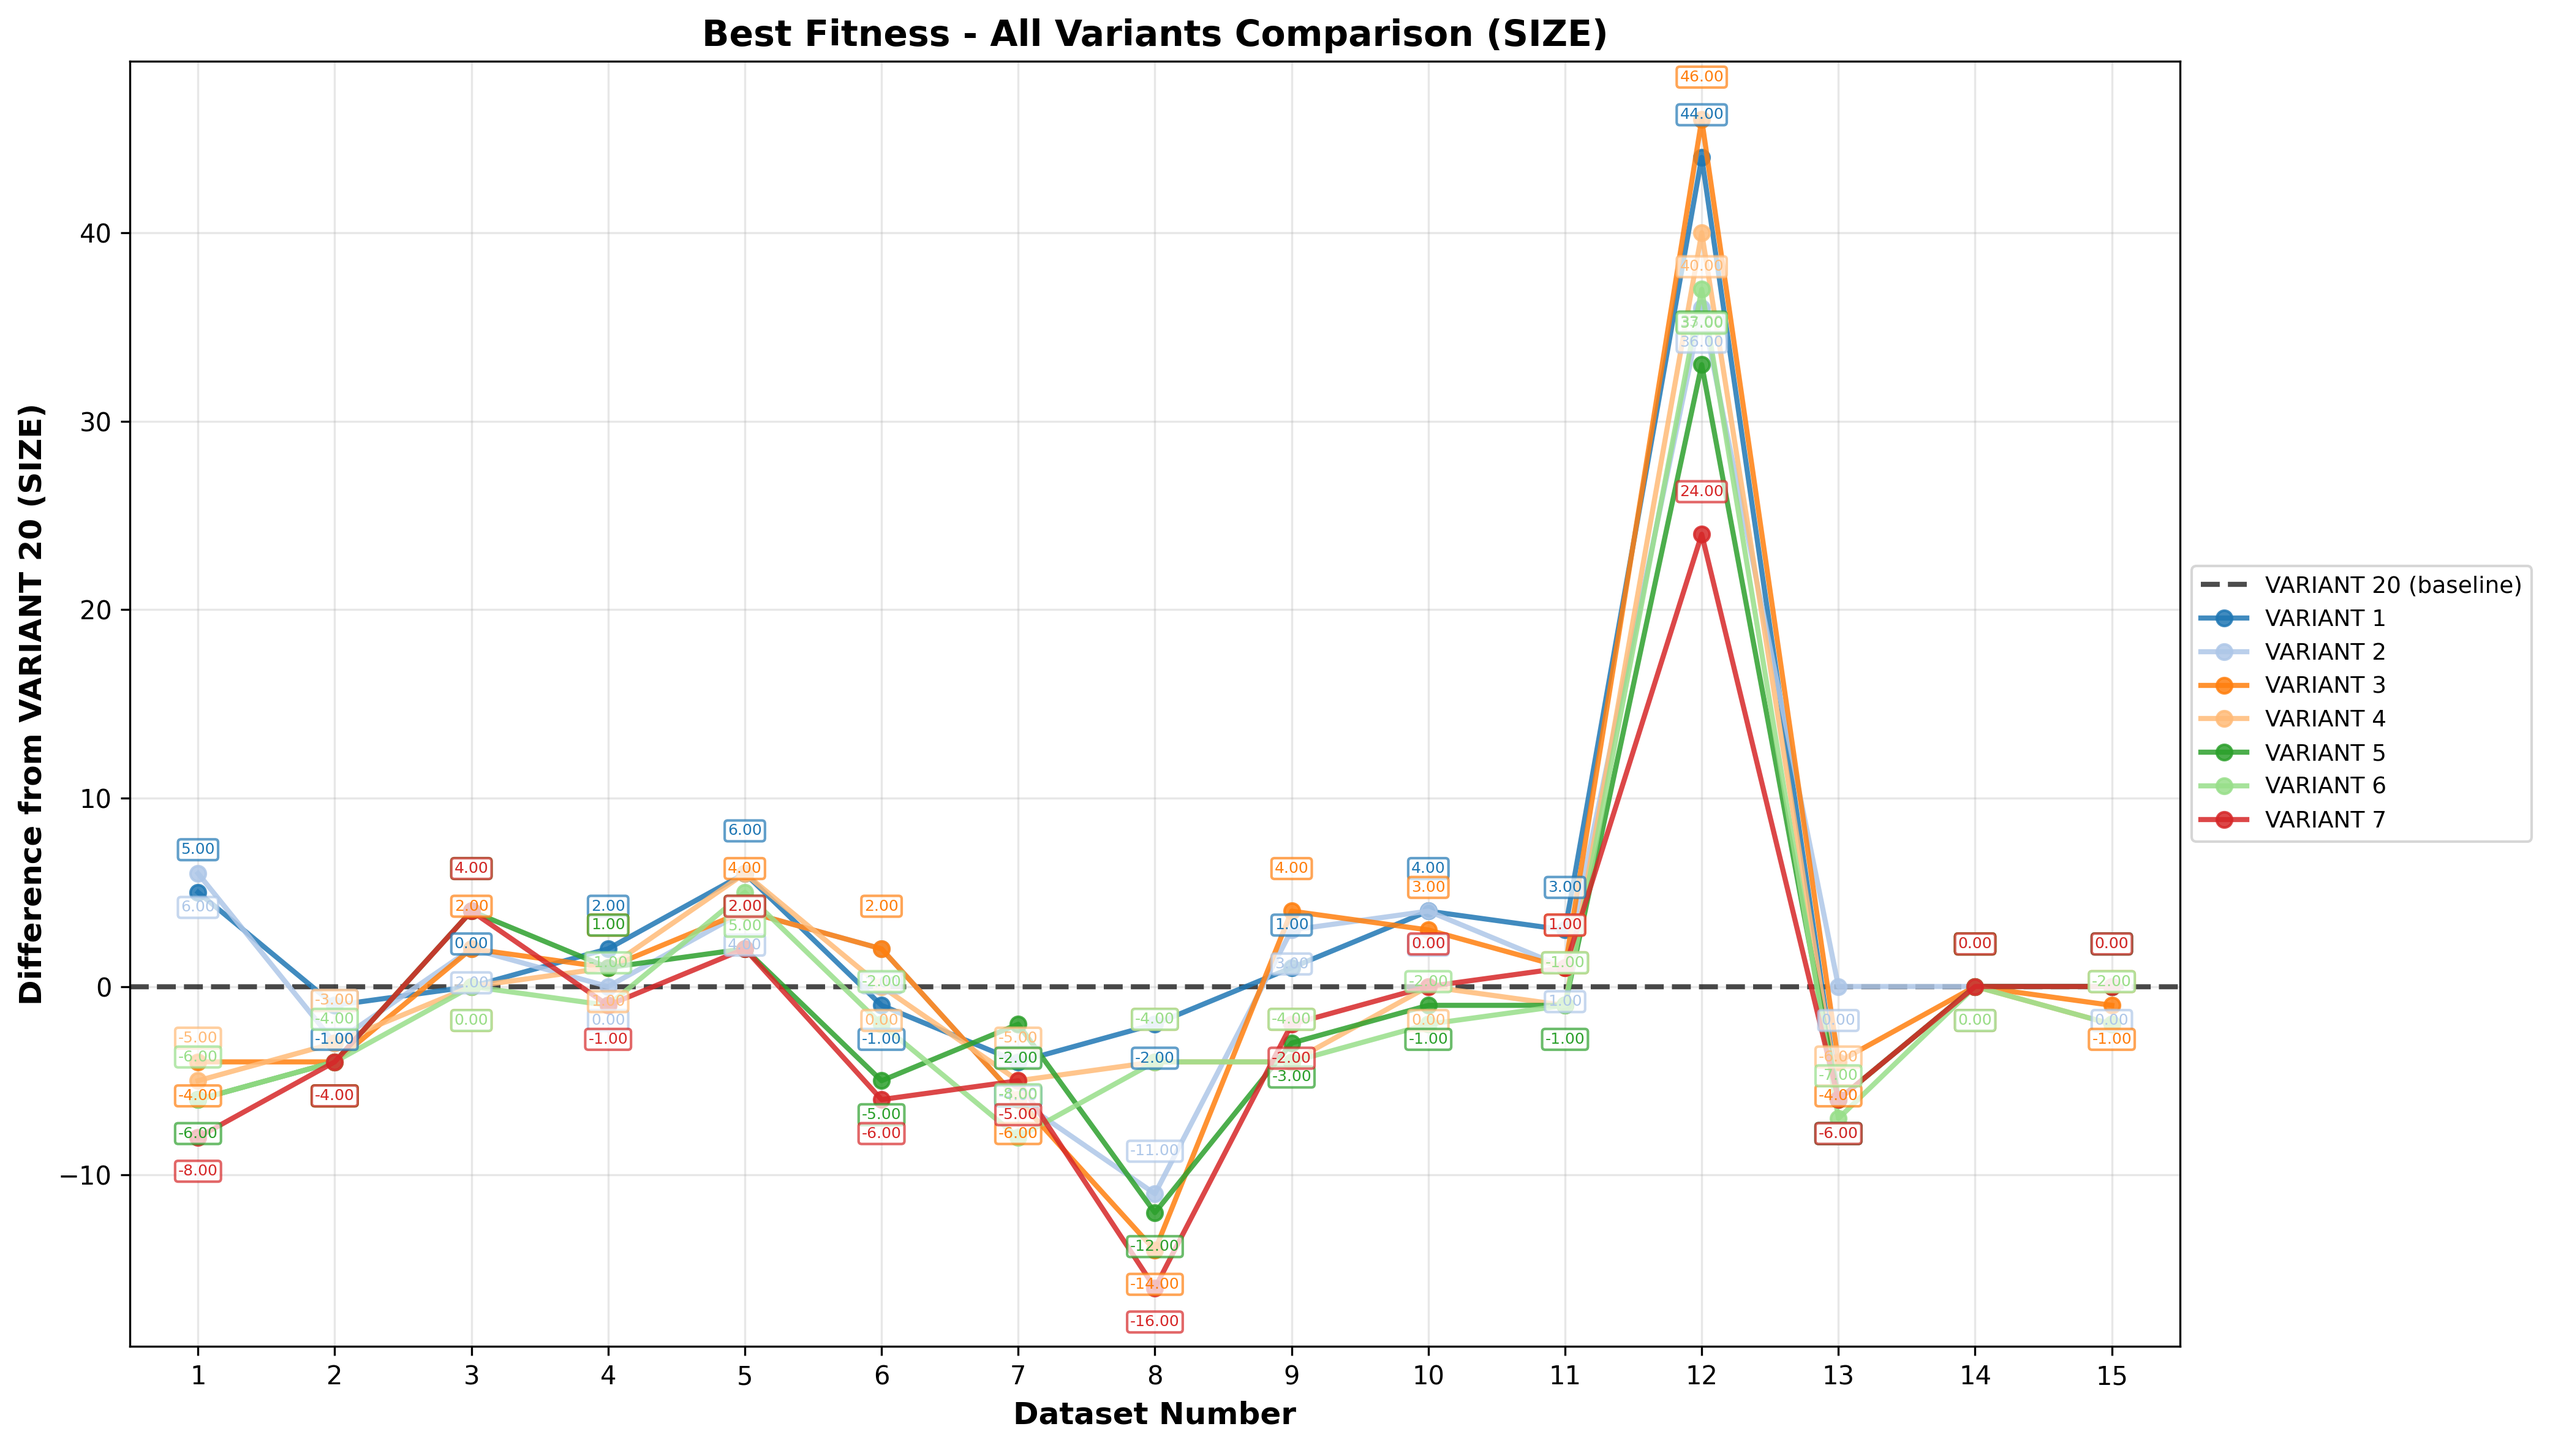
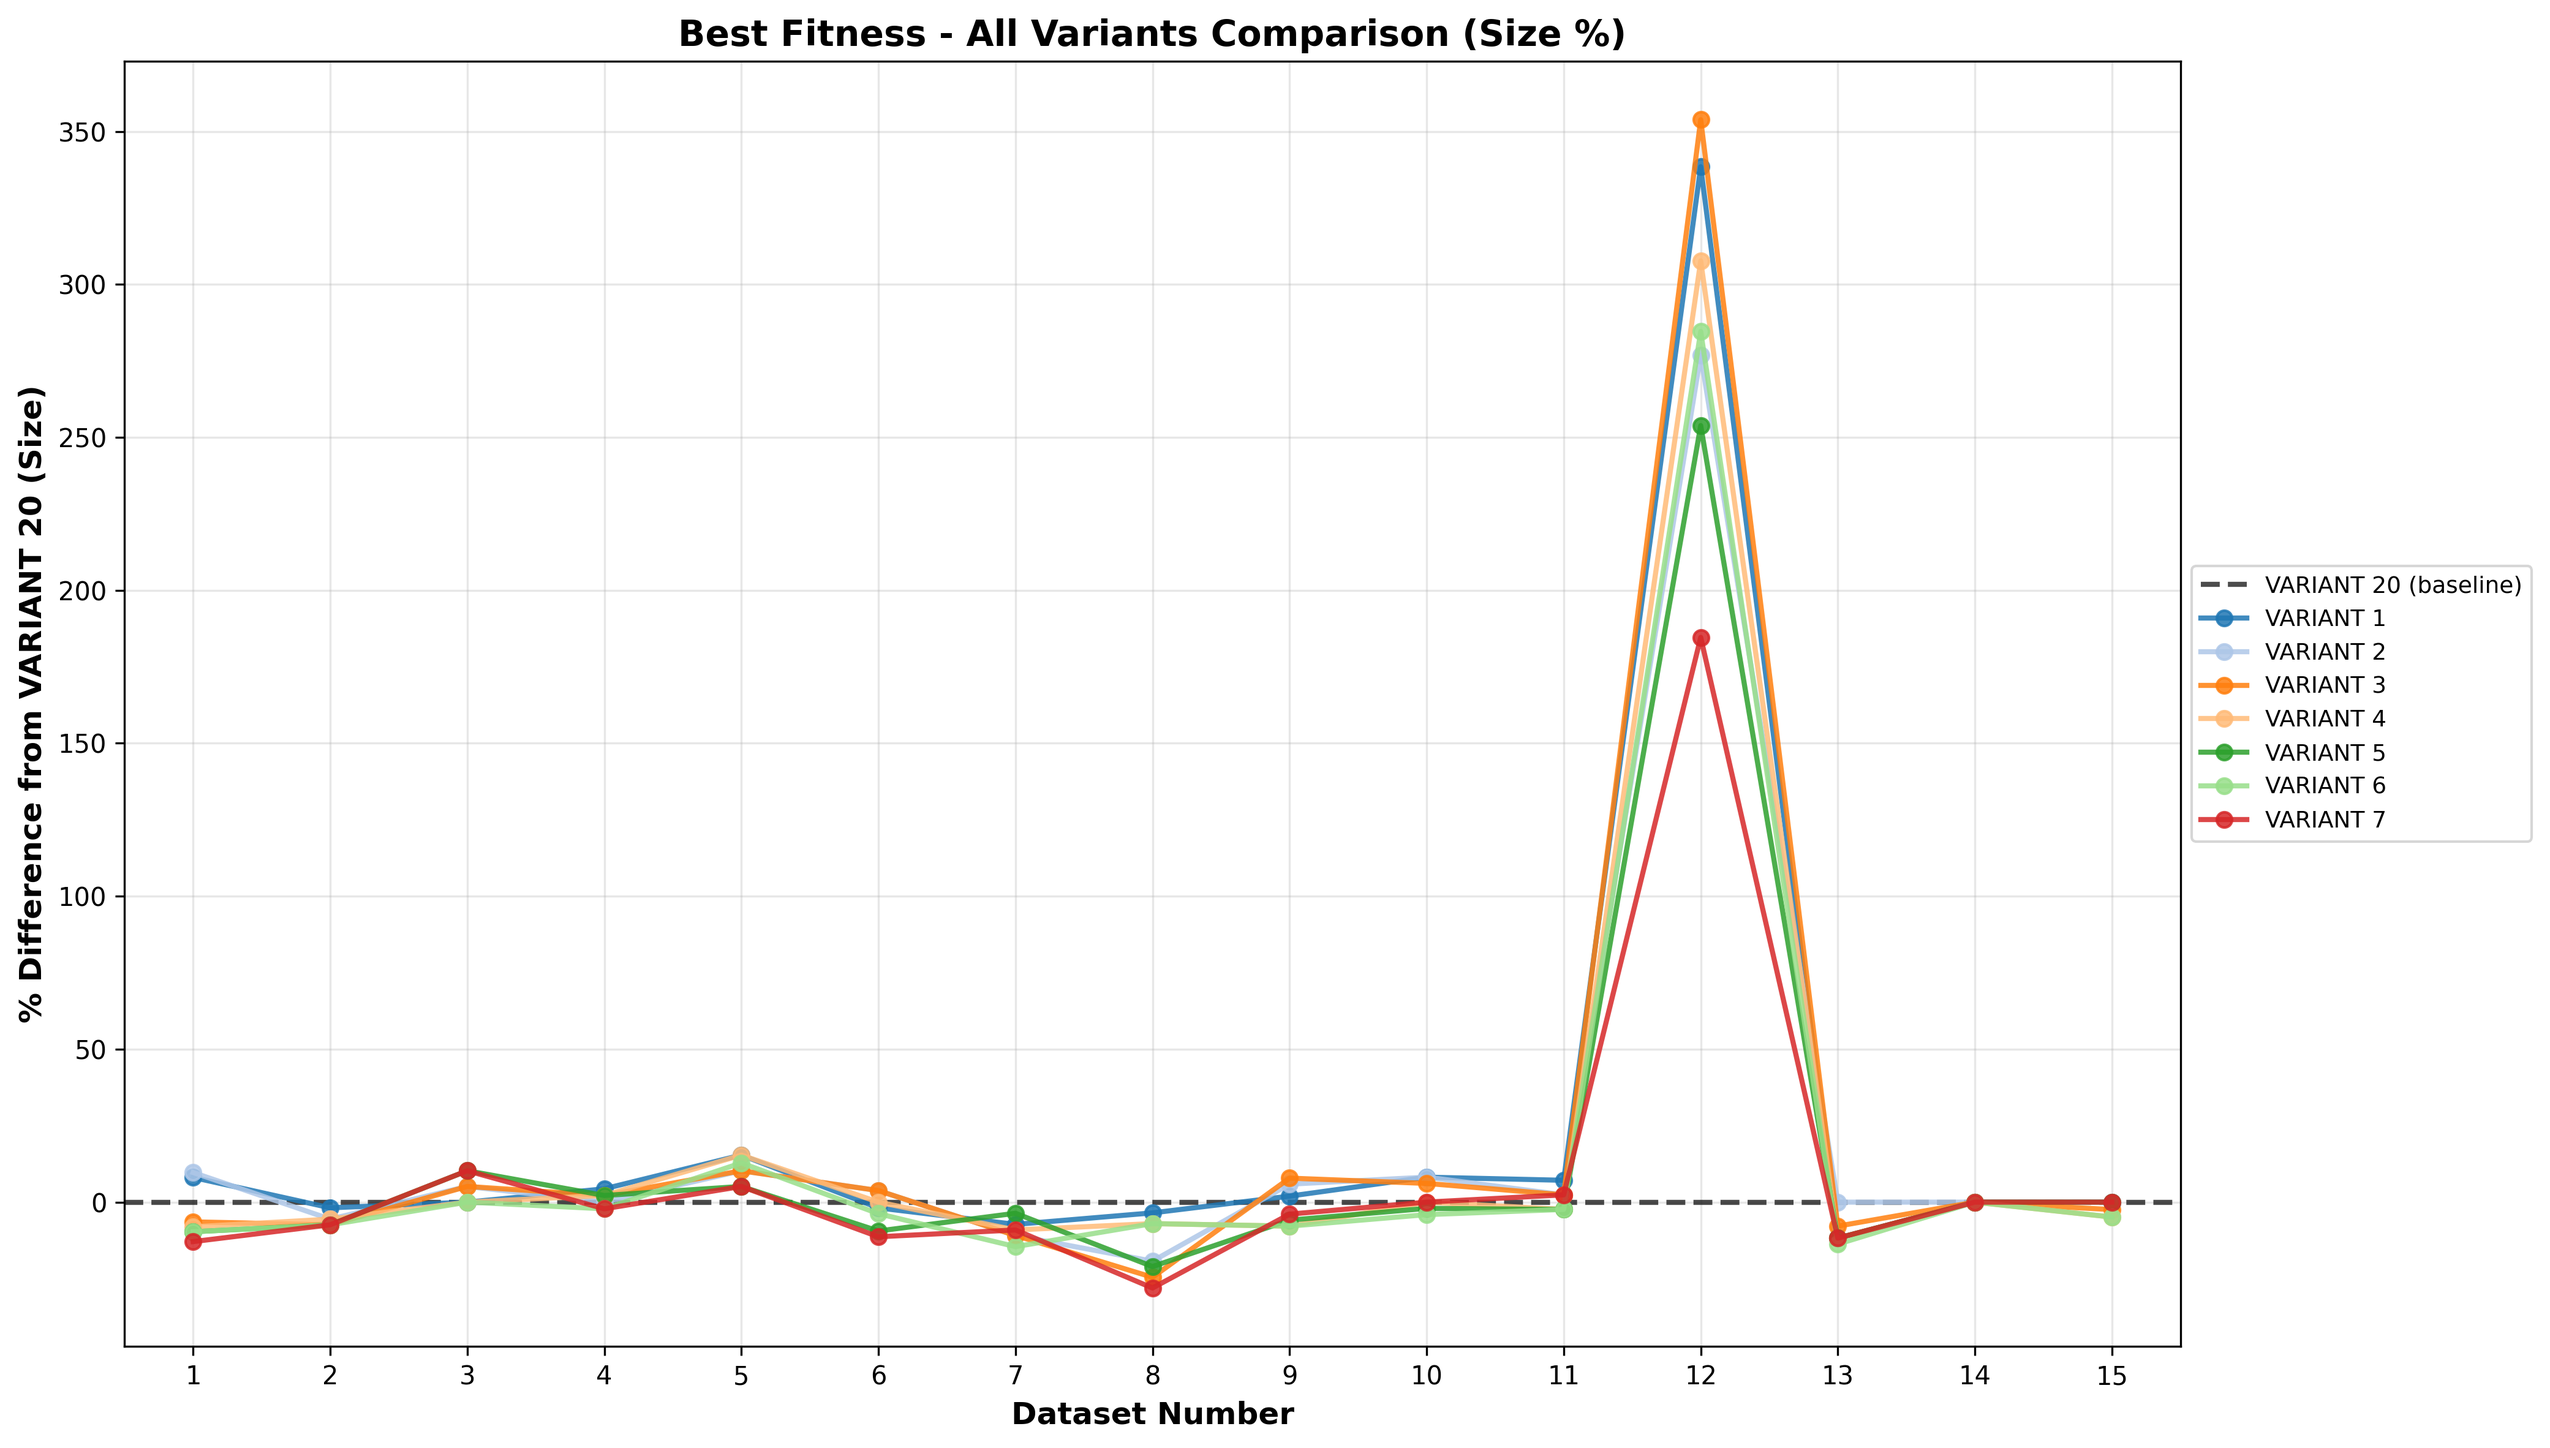
now the size plot is in % values

diff --git a/slim_gsgp/plot_by_individual_type.py b/slim_gsgp/plot_by_individual_type.py
@@ -202,7 +202,11 @@ def create_individual_comparison_plot(all_variants_data, model_type, table_type,
             
             if baseline_val is not None and variant_val is not None:
                 datasets.append(ds_num)
-                diff = variant_val - baseline_val
+                # For size, calculate percentage difference; for fitness, absolute difference
+                if table_type.lower() == 'size':
+                    diff = ((variant_val - baseline_val) / baseline_val) * 100
+                else:
+                    diff = variant_val - baseline_val
                 differences.append(diff)
         
         if datasets:
@@ -216,36 +220,22 @@ def create_individual_comparison_plot(all_variants_data, model_type, table_type,
                     label=variant_name,
                     alpha=0.85)
             
-            # Add value annotations with smart positioning
-            for ds, diff in zip(datasets, differences):
-                # Alternate offset direction to reduce overlap
-                y_offset = 15 if variant_idx % 2 == 0 else -15
-                if diff < 0:
-                    y_offset = -y_offset
-                
-                plt.annotate(f'{diff:.2f}', 
-                           xy=(ds, diff), 
-                           xytext=(0, y_offset),
-                           textcoords='offset points',
-                           ha='center',
-                           fontsize=6,
-                           color=color,
-                           bbox=dict(boxstyle='round,pad=0.2', 
-                                   facecolor='white', 
-                                   edgecolor=color,
-                                   alpha=0.7,
-                                   linewidth=1))
-            
             variant_idx += 1
     
     plt.xlabel('Dataset Number', fontsize=12, fontweight='bold')
     
-    # Use "RMSE" instead of "fitness" in labels
-    metric_name = "RMSE" if table_type.lower() == 'fitness' else table_type.upper()
-    plt.ylabel(f'Difference from {baseline_variant} ({metric_name})', fontsize=12, fontweight='bold')
+    # Use "RMSE" instead of "fitness" in labels, and "%" for size
+    if table_type.lower() == 'fitness':
+        metric_name = "RMSE"
+        ylabel = f'Difference from {baseline_variant} ({metric_name})'
+        title_metric = metric_name
+    else:
+        ylabel = f'% Difference from {baseline_variant} (Size)'
+        title_metric = "Size %"
+    plt.ylabel(ylabel, fontsize=12, fontweight='bold')
     
     model_type_short = model_type.replace(' ', '_').lower()
-    plt.title(f'{model_type} - All Variants Comparison ({metric_name})', 
+    plt.title(f'{model_type} - All Variants Comparison ({title_metric})', 
              fontsize=14, fontweight='bold')
     
     plt.xticks(range(1, 16))
@@ -258,12 +248,12 @@ def create_individual_comparison_plot(all_variants_data, model_type, table_type,
     
     return plt.gcf()  # Return current figure instead of plt module
 
-def print_summary_table(all_variants_data, model_type, baseline_variant='VARIANT 20'):
+def print_summary_table(all_variants_data, model_type, table_type='fitness', baseline_variant='VARIANT 20'):
     """
     Print a summary table showing values for all variants and datasets.
     """
     print("\n" + "="*100)
-    print(f"SUMMARY TABLE - {model_type}")
+    print(f"SUMMARY TABLE - {model_type} ({table_type.upper()})")
     print("="*100)
     
     # Get all datasets
@@ -298,8 +288,14 @@ def print_summary_table(all_variants_data, model_type, baseline_variant='VARIANT
                     # Show difference from baseline
                     baseline_val = baseline_data.get(ds_num, None)
                     if baseline_val is not None:
-                        diff = val - baseline_val
-                        row += f"{val:.4f}({diff:+.2f})"[:15].ljust(15)
+                        if table_type.lower() == 'size':
+                            # Show percentage difference for size
+                            diff_pct = ((val - baseline_val) / baseline_val) * 100
+                            row += f"{val:.1f}({diff_pct:+.1f}%)"[:15].ljust(15)
+                        else:
+                            # Show absolute difference for fitness
+                            diff = val - baseline_val
+                            row += f"{val:.4f}({diff:+.2f})"[:15].ljust(15)
                     else:
                         row += f"{val:<15.4f}"
             else:
@@ -347,7 +343,7 @@ def main(excel_file="manual_set_results_test_fitness_size.xlsx", output_dir="plo
                     continue
                 
                 # Print summary table
-                print_summary_table(all_variants_data, model_type)
+                print_summary_table(all_variants_data, model_type, table_type)
                 
                 # Create and save plot
                 fig = create_individual_comparison_plot(all_variants_data, model_type, table_type)
